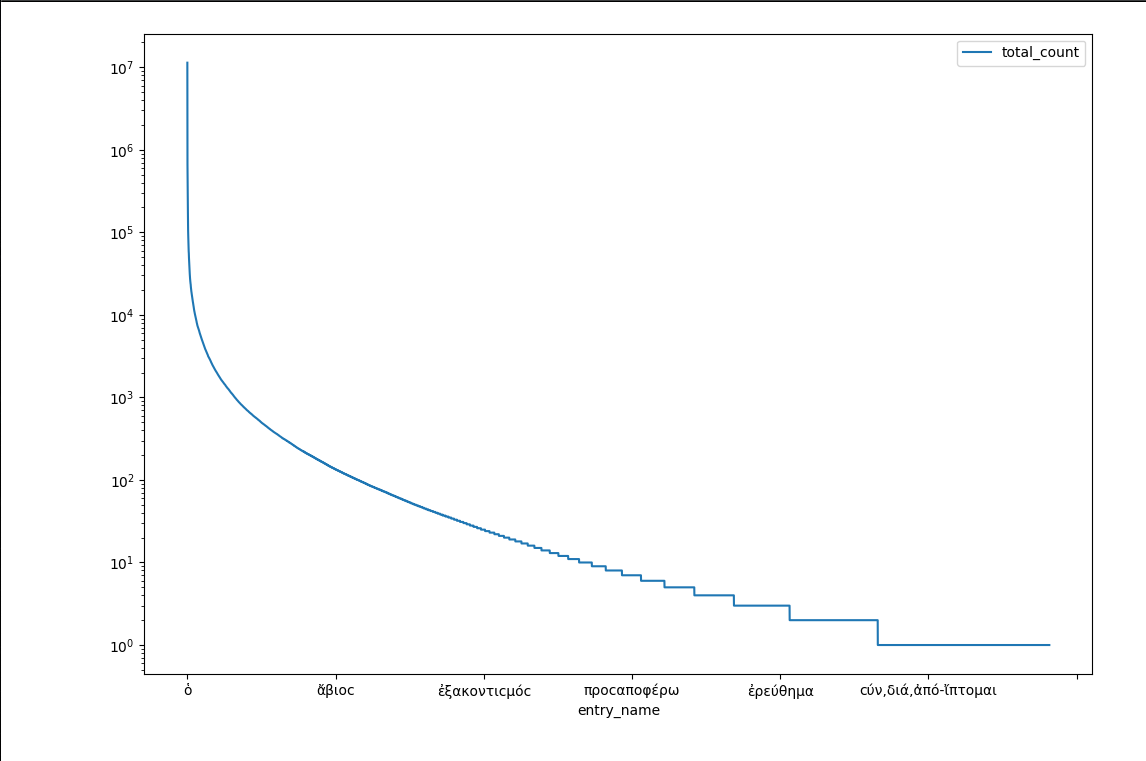
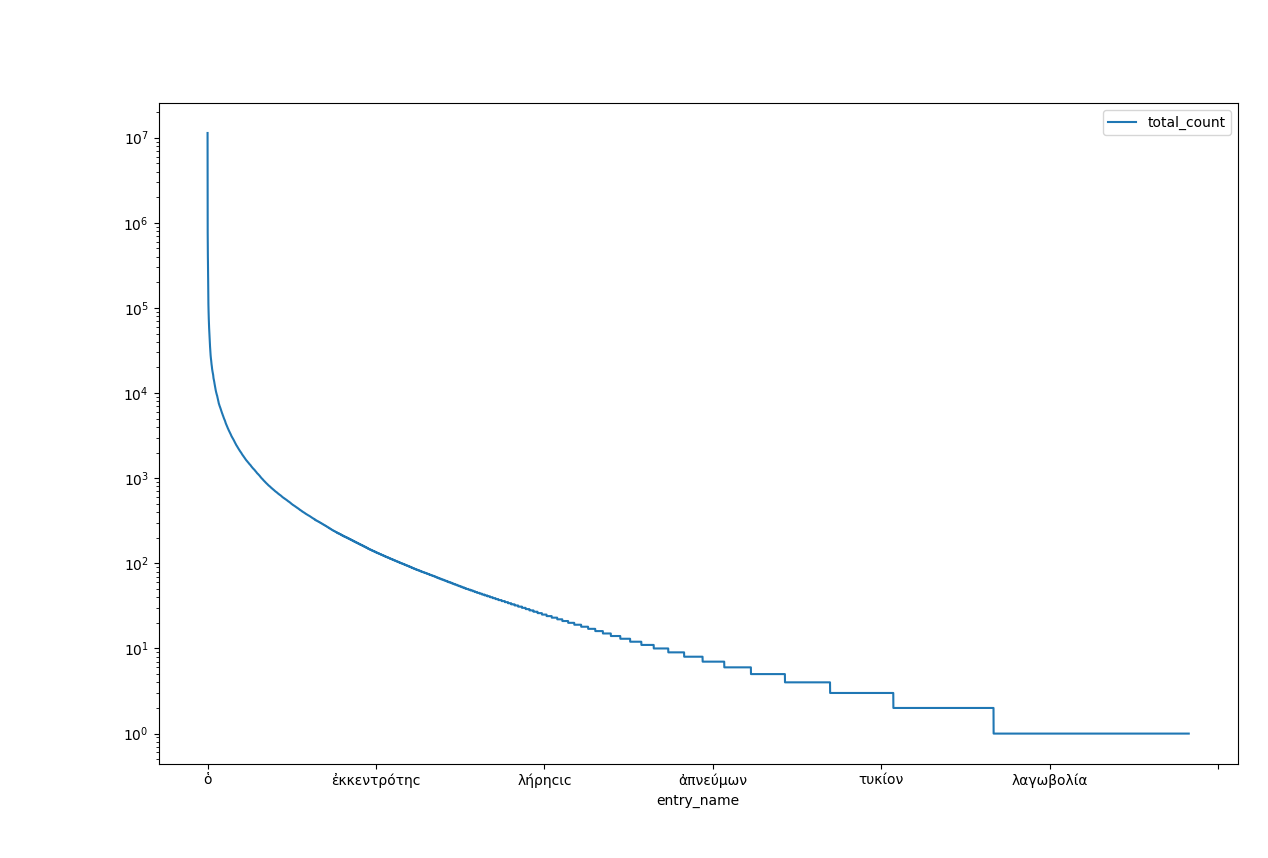
update headword_data_fyi.md: HipparchiaLexicalData changed

diff --git a/main.go b/main.go
@@ -53,6 +53,10 @@ func main() {
 
 	printversion()
 
+	if Config.LogLevel > 0 {
+		printbuildinfo()
+	}
+
 	if !Config.QuietStart {
 		msg(fmt.Sprintf(TERMINALTEXT, PROJYEAR, PROJAUTH, PROJMAIL), MSGMAND)
 	}
@@ -147,9 +151,10 @@ func printversion() {
 func printbuildinfo() {
 	bi := ""
 	if BuildDate != "" {
-		bi = messenger.ColStyle(fmt.Sprintf("\tS1Built:S0\tC3%sC0\n", BuildDate))
-
+		bi = messenger.ColStyle(fmt.Sprintf("\tS1Built:S0\tC3%sC0\t", BuildDate))
 	}
-	bi += messenger.ColStyle(fmt.Sprintf("\tS1Go:S0\tC3%sC0", runtime.Version()))
+	bi += messenger.ColStyle(fmt.Sprintf("\tS1Golang:S0\tC3%sC0\n", runtime.Version()))
+	bi += messenger.ColStyle(fmt.Sprintf("\tS1System:S0\tC3%s-%sC0\t", runtime.GOOS, runtime.GOARCH))
+	bi += messenger.ColStyle(fmt.Sprintf("\t\tS1WKvCPU:S0\tC3%dC0/C3%dC0", Config.WorkerCount, runtime.NumCPU()))
 	fmt.Println(bi)
 }

diff --git a/rt-frontpage.go b/rt-frontpage.go
@@ -55,7 +55,7 @@ func RtFrontpage(c echo.Context) error {
 	if gc == "" {
 		gc = "UNKNOWN"
 	}
-	ver := fmt.Sprintf("Version: %s [git: %s]", VERSION, gc)
+	ver := fmt.Sprintf("Version: %s [git: %s]", VERSION+VersSuppl, gc)
 
 	env := fmt.Sprintf("%s: %s - %s (%d workers)", runtime.Version(), runtime.GOOS, runtime.GOARCH, Config.WorkerCount)
 

diff --git a/fyi/headword_data_fyi.md b/fyi/headword_data_fyi.md
@@ -26,31 +26,31 @@ top 25:
 hipparchiaDB=# SELECT entry_name,total_count from dictionary_headword_wordcounts where gr_count > 0 and entry_name ~ '[^a-z]' order by total_count desc limit 25;
  entry_name | total_count
 ------------+-------------
- ὁ          |    11354916
- καί        |     4506160
- τίϲ        |     2469211
- ἔδω        |     1972812
- δέ         |     1954138
- εἰμί       |     1869243
- δέω¹       |     1789427
- δεῖ        |     1759712
- δέομαι     |     1758513
- εἰϲ        |     1453295
- αὐτόϲ      |     1282454
- τιϲ        |     1056371
- οὗτοϲ      |      911403
- ἐν         |      896200
- γάροϲ      |      768587
- γάρον      |      768495
- γάρ        |      768149
- οὐ         |      716254
- μένω       |      663432
- μέν        |      633758
- τῷ         |      588780
- ἐγώ        |      566615
- ἡμόϲ       |      521449
- κατά       |      513070
- Ζεύϲ       |      513039
+ ὁ          |    11355114
+ καί        |     4506255
+ τίϲ        |     2469259
+ ἔδω        |     1972852
+ δέ         |     1954170
+ εἰμί       |     1869310
+ δέω¹       |     1789454
+ δεῖ        |     1759738
+ δέομαι     |     1758537
+ εἰϲ        |     1453398
+ αὐτόϲ      |     1282478
+ τιϲ        |     1056406
+ οὗτοϲ      |      911397
+ ἐν         |      896257
+ γάροϲ      |      768593
+ γάρον      |      768501
+ γάρ        |      768155
+ οὐ         |      716285
+ μένω       |      663460
+ μέν        |      633761
+ τῷ         |      588789
+ ἐγώ        |      566646
+ ἡμόϲ       |      521478
+ κατά       |      513083
+ Ζεύϲ       |      513061
 (25 rows)
 ```
 
@@ -76,32 +76,32 @@ top 25:
 
 ``` 
 hipparchiaDB=# SELECT entry_name,total_count from dictionary_headword_wordcounts where lt_count > 0 and entry_name ~ '[a-z]' order by total_count desc limit 25;
-entry_name | total_count
+ entry_name | total_count
 ------------+-------------
- qui¹       |      251744
- et         |      227326
- in         |      183796
- edo¹       |      159393
- is         |      132477
- sum¹       |      118283
- hic        |      100200
+ qui¹       |      251752
+ et         |      227327
+ in         |      183802
+ edo¹       |      159394
+ is         |      132489
+ sum¹       |      118288
+ hic        |      100679
  non        |       96475
- ab         |       91730
+ ab         |       91768
  ut         |       76201
- Cos²       |       71333
- si         |       68895
+ Cos²       |       71431
+ si         |       68898
  ad         |       68236
- cum        |       67427
+ cum        |       67434
  ex         |       65251
- a          |       65227
- eo¹        |       58129
+ a          |       65234
+ eo¹        |       58138
  ego        |       53870
- quis¹      |       52619
- tu         |       51374
- Eos        |       50850
+ quis¹      |       52628
+ Eos        |       51588
+ tu         |       51375
  dico²      |       48884
- ille       |       44214
+ ille       |       44216
  sed        |       44131
- de         |       42695
+ de         |       42696
 (25 rows)
 ```
